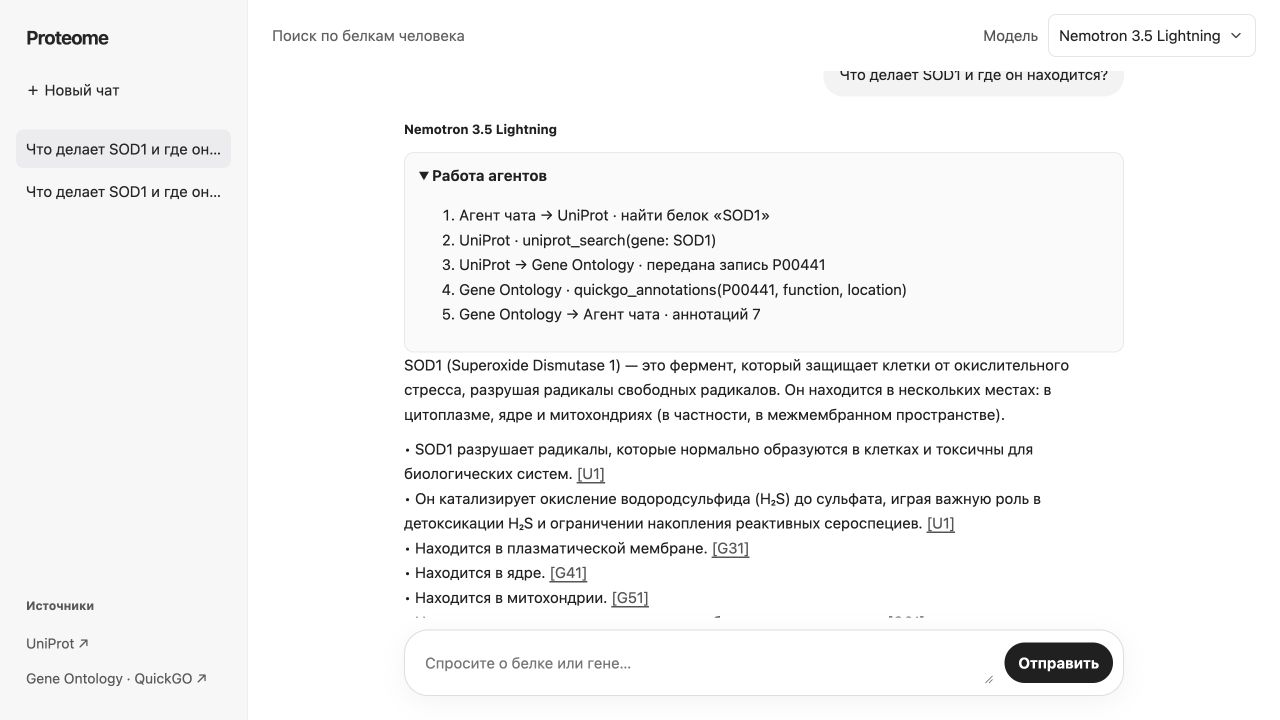
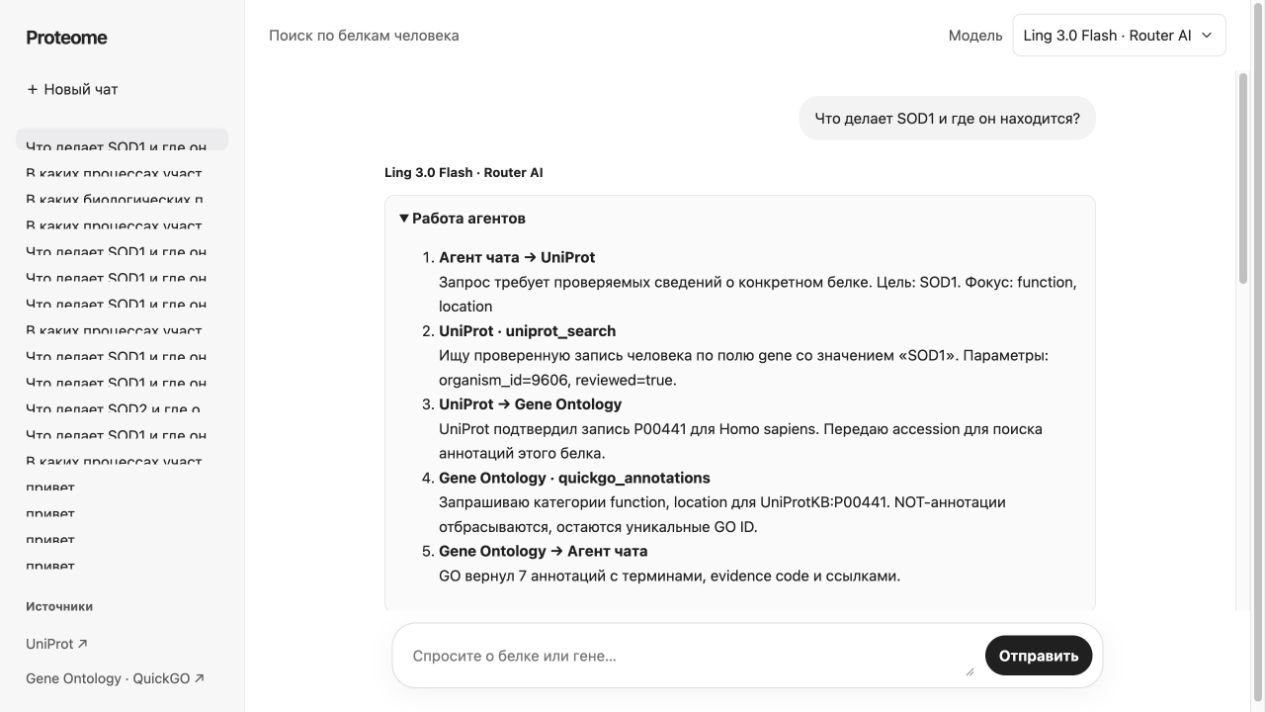
Update Site source

diff --git a/worker/index.js b/worker/index.js
@@ -11,7 +11,7 @@ async function model(env, selected, system, data) {
     method:'POST', headers:{'Content-Type':'application/json', Authorization:'Bearer '+env.ROUTERAI_API_KEY},
     body:JSON.stringify({model:selected,temperature:0,max_tokens:4000,reasoning:{enabled:false},messages:[{role:'system',content:system},{role:'user',content:system+'\n'+JSON.stringify(data)}]})
   });
-  if (!response.ok) throw Error(response.status === 429 ? 'OpenRouter ограничил запросы. Попробуйте позже.' : 'Ошибка OpenRouter ('+response.status+')');
+  if (!response.ok) throw Error(response.status === 429 ? 'Router AI ограничил запросы. Попробуйте позже.' : 'Ошибка Router AI ('+response.status+')');
   const dataOut = await response.json();
   const content = dataOut.choices?.[0]?.message?.content;
   if (!content) throw Error('Модель вернула пустой ответ.');
@@ -33,12 +33,22 @@ const tools = {
   const q=String(args.query).slice(0,120).replace(/["\\]/g,'');
   const find=async query=>get('https://rest.uniprot.org/uniprotkb/search?'+new URLSearchParams({query:'organism_id:9606 AND reviewed:true AND '+query,size:'6'}));
   let entries=[];
-  if (args.field === 'gene' && /^[A-Za-z0-9_-]+$/.test(q)) entries=(await find('gene_exact:"'+q+'"')).results;
+  if (/^[A-Za-z0-9_-]+$/.test(q)) entries=(await find('gene_exact:"'+q+'"')).results;
   if (!entries.length) entries=(await find('protein_name:"'+q+'"')).results;
       return entries.map(entry => ({
         primaryAccession: entry.primaryAccession,
         comments: (entry.comments || []).filter(comment => comment.commentType === 'FUNCTION')
       }));
+    },
+  },
+  uniprot_get_entry: {
+    description: 'Retrieve a UniProt entry by accession',
+    inputSchema: {type:'object', required:['accession'], properties:{accession:{type:'string'}}},
+    async run({accession}) {
+      if (!/^[A-Z0-9]{6,10}$/.test(accession)) throw Error('Недопустимый идентификатор UniProt.');
+      const entry = await get('https://rest.uniprot.org/uniprotkb/'+accession+'.json');
+      if (entry.organism?.taxonId !== 9606 || entry.entryType !== 'UniProtKB reviewed (Swiss-Prot)') throw Error('Нужна проверенная запись белка человека.');
+      return entry;
     },
   },
   quickgo_annotations: {
@@ -110,9 +120,18 @@ async function chat(payload, env, send) {
     'Ты агент UniProt. Выбери запрос в UniProtKB по символу гена или английскому названию белка. Верни только JSON {"query":"...","field":"gene или protein"}. Сохраняй точный символ, если он указан.',
     {...context,target:parsed.query}));
   const q = typeof searchPlan.query === 'string' && searchPlan.query.trim() ? searchPlan.query.trim() : String(parsed.query);
-  const searchArgs = {query:q,field:searchPlan.field === 'protein' ? 'protein' : 'gene'};
-  send({trace:'UniProt · uniprot_search', detail:'Ищу проверенную запись человека по полю '+searchArgs.field+' со значением «'+q+'». Параметры: organism_id=9606, reviewed=true.'});
-  const entries = await callTool('uniprot_search',searchArgs);
+  const previousMatches = [...String(context.previous_question || '').matchAll(/UniProt:\s*([A-Z0-9]{6,10})/g)];
+  const previousAccession = previousMatches.at(-1)?.[1];
+  const followUp = Boolean(previousAccession && /(?:его|него|неё|нее|этого белка|этот белок|this protein|\\b(?:it|its)\\b)/i.test(question) && !/[A-Za-z0-9]{2,}/.test(question));
+  let entries;
+  if (followUp) {
+    send({trace:'UniProt · использовать текущую запись', detail:'Это уточнение к предыдущему вопросу. Использую accession '+previousAccession+' вместо нового поиска по названию.'});
+    entries = [await callTool('uniprot_get_entry',{accession:previousAccession})];
+  } else {
+    const searchArgs = {query:q,field:searchPlan.field === 'protein' ? 'protein' : 'gene'};
+    send({trace:'UniProt · uniprot_search', detail:'Ищу проверенную запись человека по полю '+searchArgs.field+' со значением «'+q+'». Параметры: organism_id=9606, reviewed=true.'});
+    entries = await callTool('uniprot_search',searchArgs);
+  }
   if (!entries.length) return {answer:'Запись для «'+q+'» не найдена.',sources:{}};
   if (entries.length > 1) return {answer:'Найдено несколько записей: '+entries.map(e=>e.primaryAccession).join(', ')+'. Уточните название белка.',sources:{}};
   const entry=entries[0], accession=entry.primaryAccession;

diff --git a/worker/index.html b/worker/index.html
@@ -319,7 +319,8 @@ form.addEventListener('submit', async event => {
   const body = element('div', 'Ищу записи и готовлю ответ…', 'loading');
   response.append(element('div', selection, 'label'), body);
   const trace = element('details');
-  trace.hidden = false;
+  trace.hidden = true;
+  trace.open = true;
   trace.append(element('summary', 'Работа агентов'), element('ol'));
   response.insertBefore(trace, body);
   messages.append(response);

diff --git a/mcp_server/server.py b/mcp_server/server.py
@@ -1,0 +1,28 @@
+import json, sys
+from .uniprot_tools import uniprot_search, uniprot_get_entry
+from .quickgo_tools import quickgo_search_annotations, quickgo_get_terms
+
+TOOLS = {"uniprot_search": uniprot_search, "uniprot_get_entry": uniprot_get_entry, "quickgo_search_annotations": quickgo_search_annotations, "quickgo_get_terms": quickgo_get_terms}
+
+def handle(message):
+    method, params, request_id = message.get("method"), message.get("params", {}), message.get("id")
+    if method == "initialize":
+        result = {"protocolVersion":"2025-03-26","capabilities":{"tools":{}},"serverInfo":{"name":"proteome-mcp","version":"1.0.0"}}
+    elif method == "tools/list":
+        result = {"tools":[{"name":name,"description":func.__doc__ or name,"inputSchema":{"type":"object"}} for name,func in TOOLS.items()]}
+    elif method == "tools/call":
+        value = TOOLS[params["name"]](**params.get("arguments", {}))
+        result = {"content":[{"type":"text","text":json.dumps(value, ensure_ascii=False)}]}
+    else:
+        return {"jsonrpc":"2.0","id":request_id,"error":{"code":-32601,"message":"Method not found"}}
+    return {"jsonrpc":"2.0","id":request_id,"result":result}
+
+def main():
+    for line in sys.stdin:
+        try:
+            print(json.dumps(handle(json.loads(line)), ensure_ascii=False), flush=True)
+        except Exception as error:
+            print(json.dumps({"jsonrpc":"2.0","id":None,"error":{"code":-32000,"message":str(error)}}), flush=True)
+
+if __name__ == "__main__":
+    main()

diff --git a/app/orchestration/orchestrator.py b/app/orchestration/orchestrator.py
@@ -1,0 +1,16 @@
+from app.agents.chat_agent import ChatAgent
+from app.agents.uniprot_agent import UniProtAgent
+from app.agents.gene_ontology_agent import GeneOntologyAgent
+from app.agents.answer_agent import AnswerAgent
+from app.agents.critic_agent import CriticAgent
+from app.orchestration.messages import Trace
+class Orchestrator:
+    def __init__(self,client): self.chat=ChatAgent(client); self.up=UniProtAgent(); self.go=GeneOntologyAgent(); self.answer=AnswerAgent(client); self.critic=CriticAgent()
+    def run(self,question,history=""):
+        trace=Trace(); plan=self.chat.plan(question,history); trace.add("chat_agent","orchestrator","plan",plan)
+        if plan.get("intent") != "research": return {"answer":plan.get("answer",plan.get("question","Уточните вопрос.")),"trace":trace.events,"quality":{}}
+        up=self.up.run(plan["target"]); trace.add("orchestrator","uniprot_agent","protein_context",{"accession":up.get("accession")})
+        if not up.get("accession"): return {"answer":"Запись белка не найдена.","trace":trace.events,"quality":{}}
+        go=self.go.run(up["accession"],plan.get("focus",["function"])); trace.add("uniprot_agent","gene_ontology_agent","evidence",{"count":len(go)})
+        text=self.answer.run(question,plan,up,go); quality=self.critic.check(text,{"go":go}); trace.add("answer_agent","critic_agent","grounding_check",quality)
+        return {"answer":text,"trace":trace.events,"quality":quality,"accession":up["accession"]}

diff --git a/app/providers/routerai_client.py b/app/providers/routerai_client.py
@@ -1,0 +1,22 @@
+import json, os
+from urllib.request import Request, urlopen
+
+class RouterAIError(RuntimeError):
+    pass
+
+class RouterAIClient:
+    def __init__(self):
+        self.base_url = os.getenv("ROUTERAI_BASE_URL", "https://routerai.ru/api/v1").rstrip("/")
+        self.model = os.getenv("ROUTERAI_MODEL", "inclusionai/ling-3.0-flash")
+        self.api_key = os.getenv("ROUTERAI_API_KEY", "")
+    def complete(self, system: str, data: dict) -> str:
+        if not self.api_key:
+            raise RouterAIError("ROUTERAI_API_KEY не задан")
+        body = json.dumps({"model": self.model, "temperature": 0, "messages":[{"role":"system","content":system},{"role":"user","content":json.dumps(data, ensure_ascii=False)}]}).encode()
+        request = Request(self.base_url + "/chat/completions", data=body, headers={"Authorization":"Bearer "+self.api_key,"Content-Type":"application/json"})
+        try:
+            with urlopen(request, timeout=60) as response:
+                payload = json.load(response)
+        except Exception as error:
+            raise RouterAIError(str(error)) from error
+        return payload["choices"][0]["message"]["content"]

diff --git a/mcp_server/uniprot_tools.py b/mcp_server/uniprot_tools.py
@@ -1,0 +1,20 @@
+import json
+from urllib.parse import urlencode
+from urllib.request import Request, urlopen
+
+BASE = "https://rest.uniprot.org"
+
+def _get(path, params):
+    request = Request(BASE + path + "?" + urlencode(params), headers={"Accept":"application/json"})
+    with urlopen(request, timeout=20) as response:
+        return json.load(response)
+
+def uniprot_search(query: str, field: str = "gene", size: int = 6) -> list[dict]:
+    field_name = "gene_exact" if field == "gene" else "protein_name"
+    data = _get("/uniprotkb/search", {"query": f'organism_id:9606 AND reviewed:true AND {field_name}:"{query}"', "size": size})
+    return data.get("results", [])
+
+def uniprot_get_entry(accession: str) -> dict:
+    request = Request(f"{BASE}/uniprotkb/{accession}.json", headers={"Accept":"application/json"})
+    with urlopen(request, timeout=20) as response:
+        return json.load(response)

diff --git a/app/agents/gene_ontology_agent.py b/app/agents/gene_ontology_agent.py
@@ -1,0 +1,14 @@
+from mcp_server.quickgo_tools import quickgo_search_annotations, quickgo_get_terms
+ASPECTS={"function":"molecular_function","process":"biological_process","location":"cellular_component"}
+class GeneOntologyAgent:
+    def run(self, accession, focus):
+        out=[]
+        for category in focus:
+            aspect=ASPECTS.get(category)
+            if not aspect: continue
+            rows=quickgo_search_annotations(accession,aspect)
+            unique={r["goId"]:r for r in rows if "NOT" not in (r.get("qualifier") or "").split("|")}
+            selected=list(unique.values())[:4]
+            names={x["id"]:x["name"] for x in quickgo_get_terms([x["goId"] for x in selected])}
+            out.extend({"go_id":x["goId"],"term":names.get(x["goId"],x["goId"]),"evidence":x.get("goEvidence") or x.get("evidenceCode"),"aspect":category} for x in selected)
+        return out

diff --git a/tests/test_orchestration.py b/tests/test_orchestration.py
@@ -1,0 +1,14 @@
+from app.orchestration.orchestrator import Orchestrator
+class Client:
+    def __init__(self): self.calls=0
+    def complete(self,system,data):
+        self.calls+=1
+        return '{"intent":"research","target":"SOD1","sources":["uniprot","gene_ontology"],"focus":["function"]}' if self.calls==1 else 'SOD1 работает [U1].'
+
+def test_plan_and_critic(monkeypatch):
+    from app.orchestration import orchestrator
+    monkeypatch.setattr(orchestrator.UniProtAgent,'run',lambda self,target:{"accession":"P00441","entry":{}})
+    monkeypatch.setattr(orchestrator.GeneOntologyAgent,'run',lambda self,a,f:[{"go_id":"GO:1"}])
+    result=Orchestrator(Client()).run('Что делает SOD1?')
+    assert result['accession']=='P00441'
+    assert result['quality']['grounded']

diff --git a/mcp_server/quickgo_tools.py b/mcp_server/quickgo_tools.py
@@ -1,0 +1,17 @@
+import json
+from urllib.parse import urlencode
+from urllib.request import Request, urlopen
+
+BASE = "https://www.ebi.ac.uk/QuickGO/services"
+
+def _get(url):
+    request = Request(url, headers={"Accept":"application/json"})
+    with urlopen(request, timeout=20) as response:
+        return json.load(response)
+
+def quickgo_search_annotations(accession: str, aspect: str, limit: int = 50) -> list[dict]:
+    data = _get(BASE + "/annotation/search?" + urlencode({"geneProductId": "UniProtKB:"+accession, "aspect": aspect, "limit": limit}))
+    return data.get("results", [])
+
+def quickgo_get_terms(go_ids: list[str]) -> list[dict]:
+    return _get(BASE + "/ontology/go/terms/" + ",".join(go_ids)).get("results", [])

diff --git a/app/agents/uniprot_agent.py b/app/agents/uniprot_agent.py
@@ -1,0 +1,9 @@
+import json
+from mcp_server.uniprot_tools import uniprot_search, uniprot_get_entry
+class UniProtAgent:
+    def run(self, target):
+        rows=uniprot_search(target,"gene")
+        if not rows: rows=uniprot_search(target,"protein")
+        if not rows: return {"query":target,"entries":[]}
+        entry=uniprot_get_entry(rows[0]["primaryAccession"])
+        return {"query":target,"accession":entry["primaryAccession"],"organism":"Homo sapiens","entry":entry}

diff --git a/app/agents/answer_agent.py b/app/agents/answer_agent.py
@@ -1,0 +1,5 @@
+class AnswerAgent:
+    def __init__(self, client): self.client=client
+    def run(self, question, plan, uniprot, go):
+        records={"U1":uniprot,"GO":go}
+        return self.client.complete("Ответь на языке вопроса. Используй только records. После фактов ставь [U1] или [G1]. Не выдумывай источники.", {"question":question,"records":records})

diff --git a/app/agents/chat_agent.py b/app/agents/chat_agent.py
@@ -1,0 +1,6 @@
+import json
+class ChatAgent:
+    def __init__(self, client): self.client=client
+    def plan(self, question, history):
+        raw=self.client.complete("Верни JSON intent research, answer_directly или clarify. Для research укажи target, sources и focus. Отвечай на языке вопроса.", {"question":question,"history":history})
+        return json.loads(raw.strip().strip("`"))
